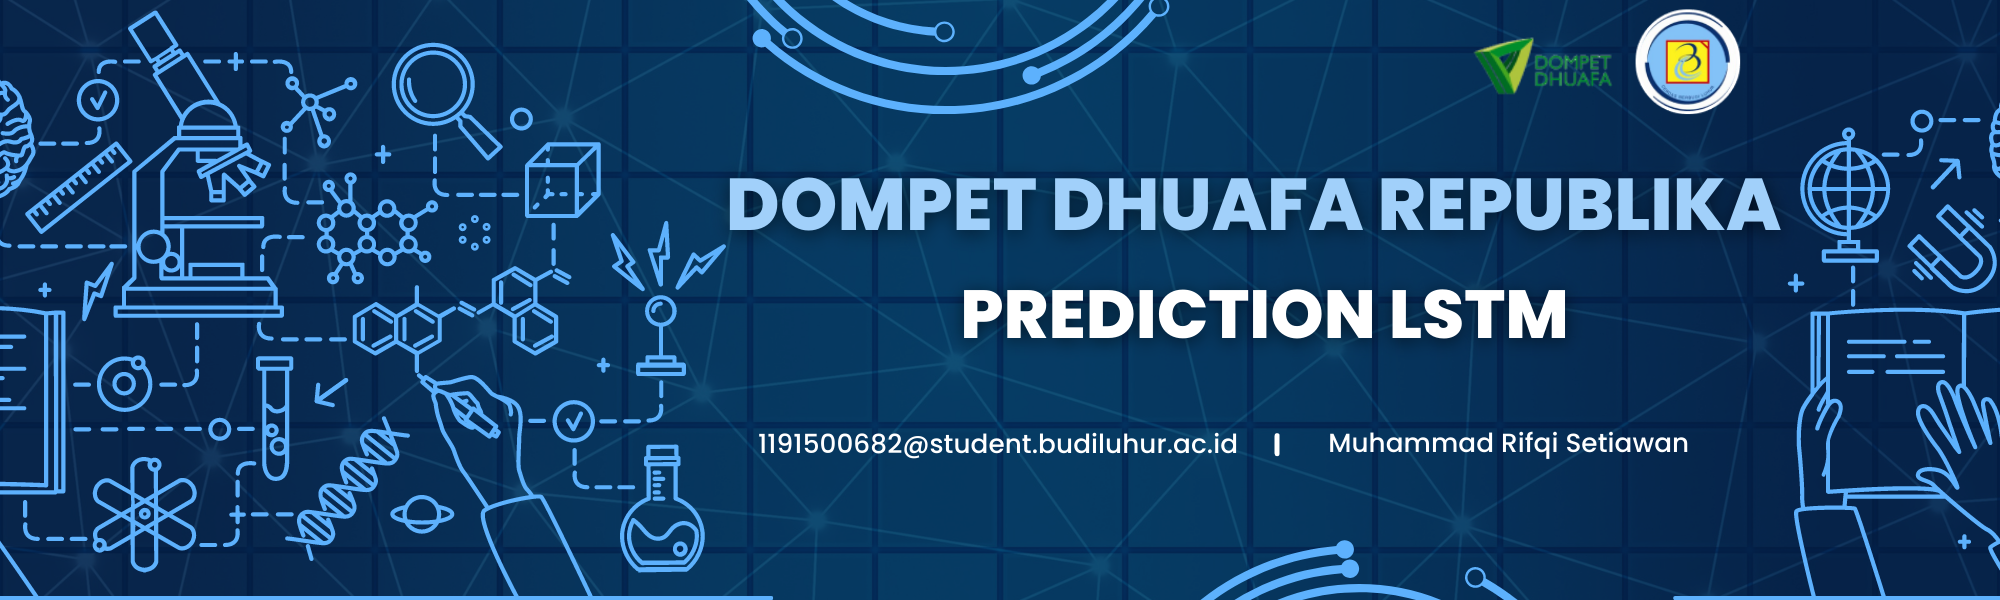
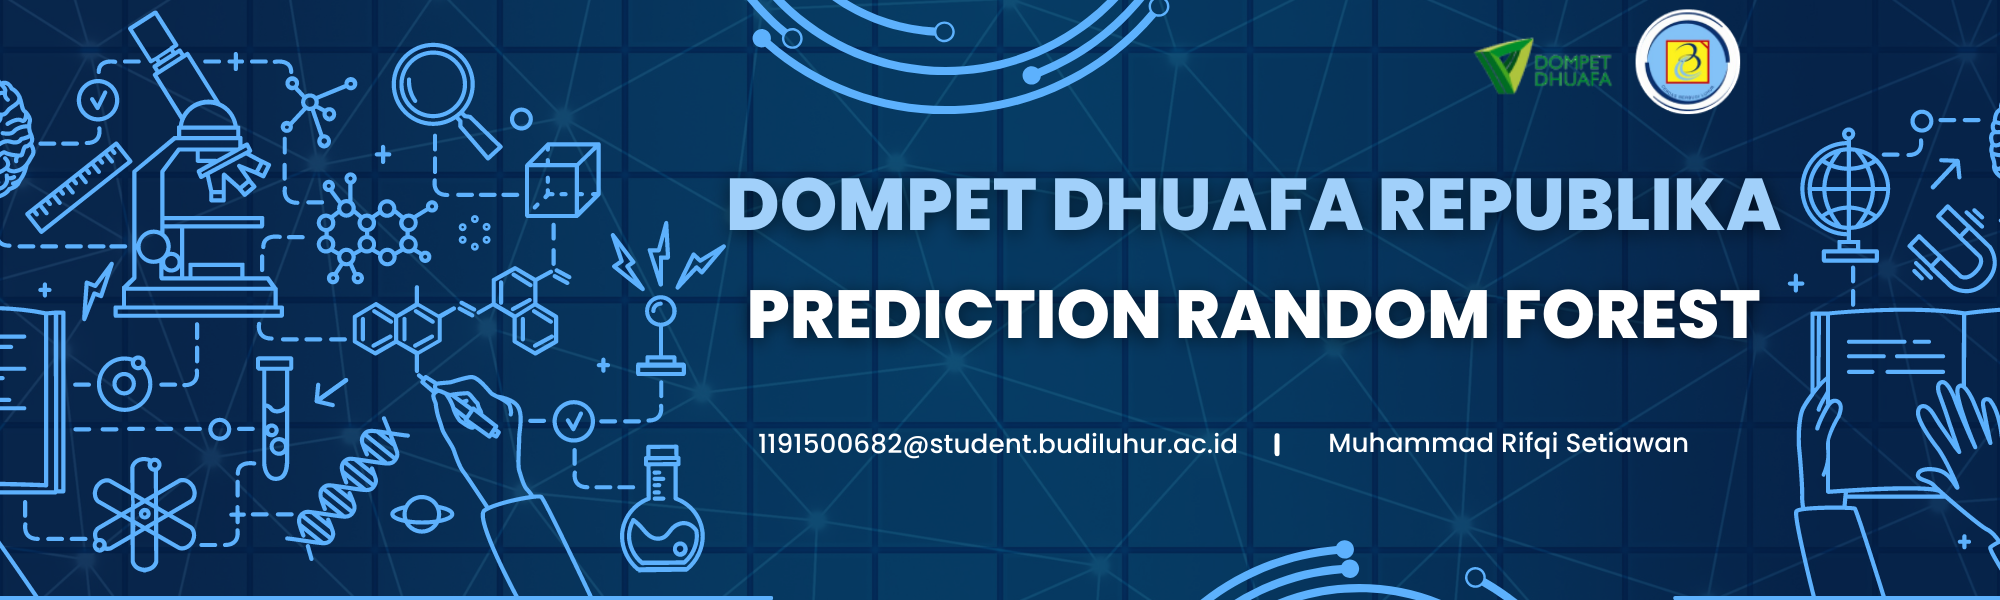
chore: create modals on sidebar logout

Changed region(s): [[0.372, 0.48, 0.899, 0.57]]

diff --git a/frontend/src/Components/sidebar/sidebar.jsx b/frontend/src/Components/sidebar/sidebar.jsx
@@ -8,13 +8,21 @@ import {
   CDBSidebarMenuItem,
 } from "cdbreact";
 import { NavLink } from "react-router-dom";
-
+import { Button, Modal } from "react-bootstrap";
 import { SlLogout } from "react-icons/sl";
 import "./sidebar.css";
 import { useNavigate } from "react-router-dom";
 import axios from "axios";
 
 const Sidebar = () => {
+  const [isLogoutModalOpen, setIsLogoutModalOpen] = useState(false);
+
+  const toggleLogoutModal = () => {
+    setIsLogoutModalOpen(!isLogoutModalOpen);
+  };
+  const handleLogout = () => {
+    navigate("/");
+  };
   const [user, setUser] = useState(null);
   useEffect(() => {
     async function fetchUser() {
@@ -30,16 +38,16 @@ const Sidebar = () => {
 
   const navigate = useNavigate();
 
-  const handleLogout = () => {
-    const logoutConfirmation = window.confirm(
-      "Apakah Anda yakin ingin logout?"
-    );
+  // const handleLogout = () => {
+  //   const logoutConfirmation = window.confirm(
+  //     "Apakah Anda yakin ingin logout?"
+  //   );
 
-    if (logoutConfirmation) {
-      alert("Anda telah logout");
-      navigate("/");
-    }
-  };
+  //   if (logoutConfirmation) {
+  //     alert("Anda telah logout");
+  //     navigate("/");
+  //   }
+  // };
 
   return (
     <section id="sidebar-components">
@@ -57,7 +65,7 @@ const Sidebar = () => {
               className="text-decoration-none"
               style={{ color: "inherit" }}
             >
-              Prediction LSTM
+              Prediction Data
             </a>
             <p style={{ textAlign: "center" }}>Welcome, {user}</p>
           </CDBSidebarHeader>
@@ -72,7 +80,7 @@ const Sidebar = () => {
               </NavLink>
               <NavLink exact to="/proses-data">
                 <CDBSidebarMenuItem icon="chart-bar">
-                  Proses LSTM
+                  Proses Data
                 </CDBSidebarMenuItem>
               </NavLink>
               <NavLink exact to="/history">
@@ -81,12 +89,30 @@ const Sidebar = () => {
               <NavLink exact to="/about">
                 <CDBSidebarMenuItem icon="user">About</CDBSidebarMenuItem>
               </NavLink>
-              <NavLink exact to="/">
-                <CDBSidebarMenuItem onClick={handleLogout}>
+              {/* <Button variant="primary" onClick={toggleLogoutModal}>
+                <SlLogout />
+                &nbsp;&nbsp;&nbsp;Logout
+              </Button> */}
+              <NavLink exact to="#" onClick={toggleLogoutModal}>
+                <CDBSidebarMenuItem>
                   <SlLogout />
-                  &nbsp;&nbsp;&nbsp;Logout
+                  &nbsp;&nbsp;&nbsp;&nbsp;&nbsp;&nbsp;Logout
                 </CDBSidebarMenuItem>
               </NavLink>
+              <Modal show={isLogoutModalOpen} onHide={toggleLogoutModal}>
+                <Modal.Header closeButton>
+                  <Modal.Title>Konfirmasi Logout</Modal.Title>
+                </Modal.Header>
+                <Modal.Body>Apakah Anda yakin ingin keluar?</Modal.Body>
+                <Modal.Footer>
+                  <Button variant="secondary" onClick={toggleLogoutModal}>
+                    Tidak
+                  </Button>
+                  <Button variant="primary" onClick={handleLogout}>
+                    Ya
+                  </Button>
+                </Modal.Footer>
+              </Modal>
             </CDBSidebarMenu>
           </CDBSidebarContent>
 
@@ -96,7 +122,7 @@ const Sidebar = () => {
                 padding: "20px 5px",
               }}
             >
-              Dompet Dhuafa LSTM
+              Dompet Dhuafa Random Forest
             </div>
           </CDBSidebarFooter>
         </CDBSidebar>

diff --git a/frontend/src/Pages/About/about.jsx b/frontend/src/Pages/About/about.jsx
@@ -16,7 +16,7 @@ export default function About() {
             <Card.Text className="sub-title">
               Website ini merupakan website sederhana yang betujuan untuk
               memprediksi data donatur melalui data time series menggunakan
-              algoritma Long Short-Term Memory
+              metode Random Forest
             </Card.Text>
             <hr />
             <Card.Img variant="top" className="profile" src={profile} />
